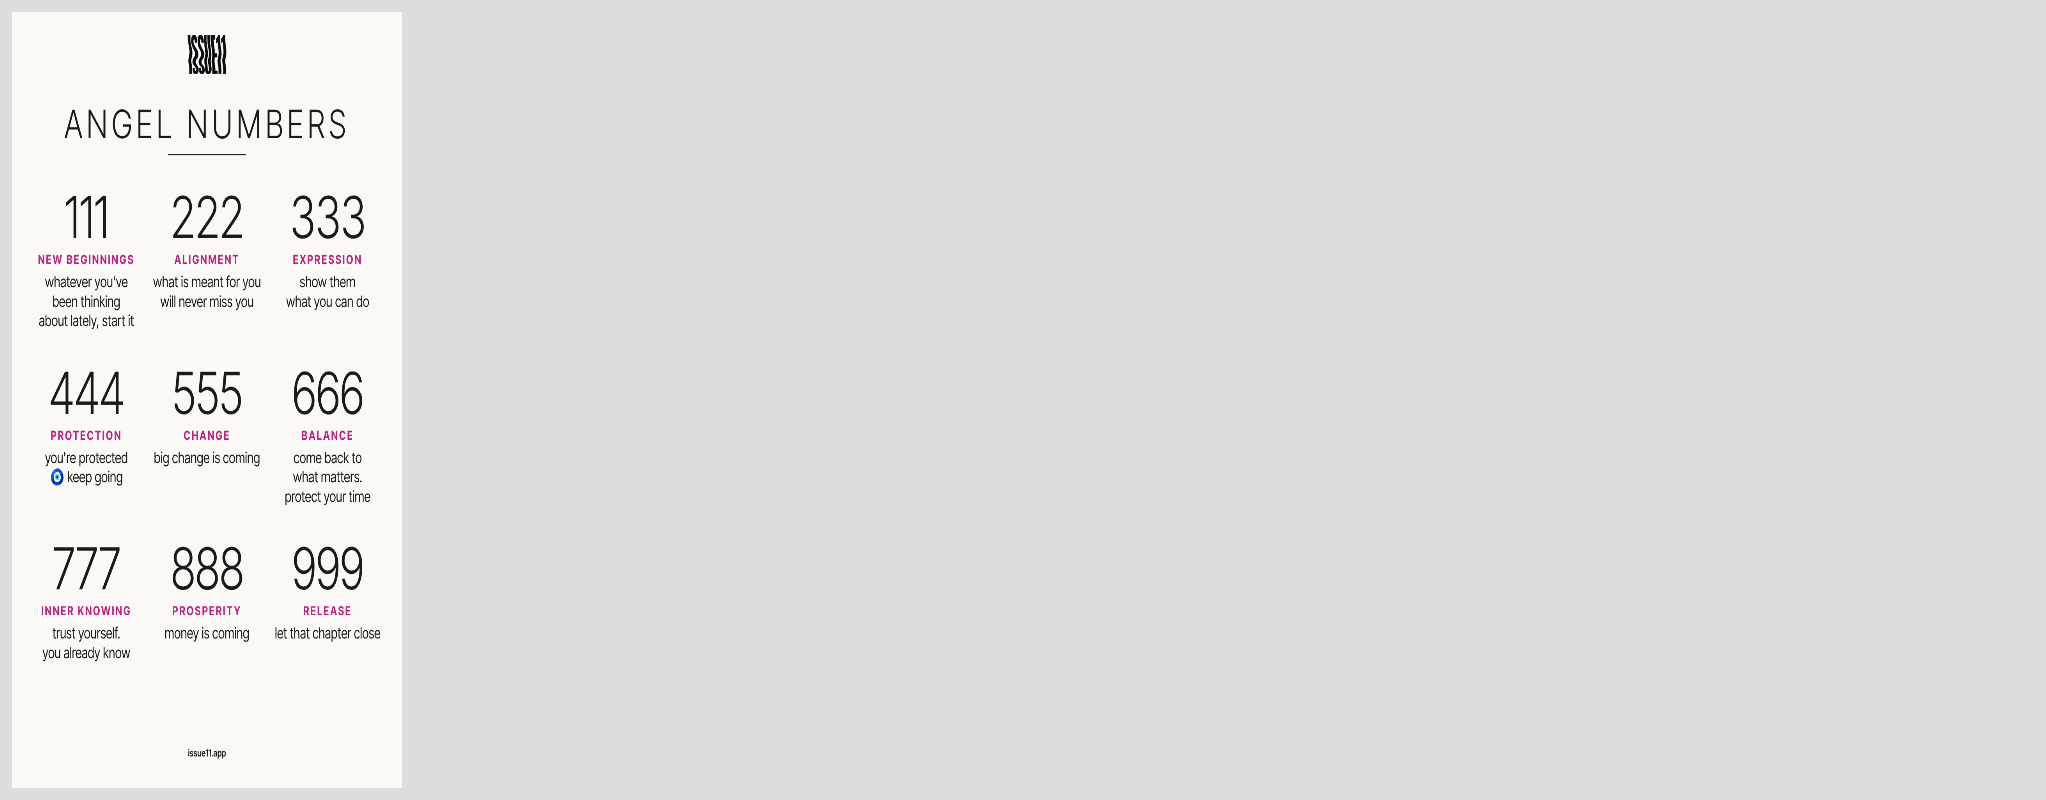
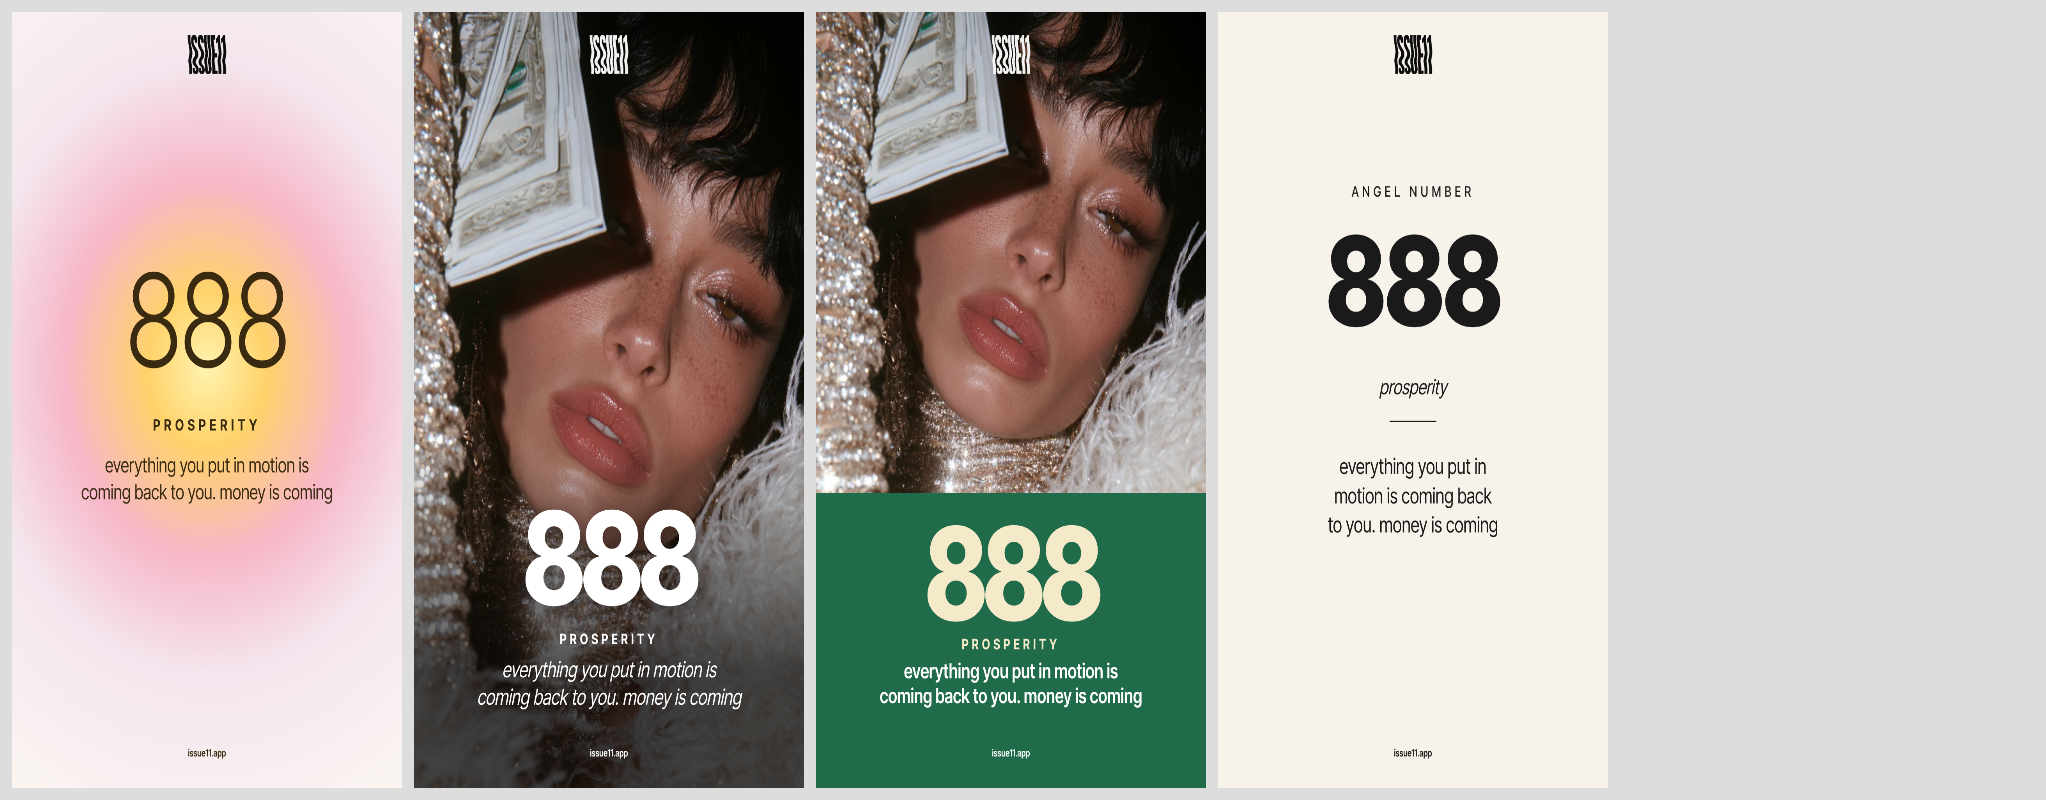
Angel number format options CT143-146
Claude-Session: https://claude.ai/code/session_01YGtmQppBCBt9nypMHzxSp1

diff --git a/drafts/pinterest/color-test/CT144.dc.html b/drafts/pinterest/color-test/CT144.dc.html
@@ -1,0 +1,41 @@
+<!doctype html>
+<html lang="en">
+<head>
+<meta charset="utf-8">
+<title>Color test 144 · angel format B · full-bleed photo</title>
+<script src="./support.js"></script>
+</head>
+<body>
+<x-dc>
+<helmet>
+<link href="https://fonts.googleapis.com/css2?family=Inter+Tight:wght@500;600;700;800;900&amp;display=swap" rel="stylesheet">
+<style>
+body{margin:0}
+.pin{width:1000px;height:1500px;position:relative;overflow:hidden;font-family:'Inter Tight',system-ui,sans-serif;color:#0D0D0D}
+.bg{position:absolute;inset:0;width:100%;height:100%;object-fit:cover}
+.logo{position:absolute;left:52px;bottom:44px;height:92px}
+.w{filter:invert(1)}
+.tag{position:absolute;font-weight:800;font-size:24px;letter-spacing:.16em;padding:12px 20px;text-transform:uppercase}
+img.f{position:absolute;object-fit:cover;display:block}
+.full{inset:0;width:100%;height:100%}
+.tl{position:absolute;left:50%;top:44px;height:76px;transform:translateX(-50%);z-index:5}
+.url{position:absolute;left:0;right:0;bottom:56px;text-align:center;font-weight:600;font-size:19px;z-index:5}
+
+.pin{background:#222}
+.n{position:absolute;left:0;right:0;top:930px;text-align:center;color:#fff;font-weight:800;font-size:250px;letter-spacing:-.06em;line-height:1;text-shadow:0 6px 40px rgba(0,0,0,.35)}
+.k{position:absolute;left:0;right:0;top:1195px;text-align:center;color:#fff;font-weight:700;font-size:28px;letter-spacing:.3em}
+.l{position:absolute;left:100px;right:100px;top:1245px;text-align:center;color:#fff;font-style:italic;font-weight:400;font-size:42px;line-height:1.25;text-wrap:balance}
+
+</style>
+</helmet>
+<div class="pin">
+<img class="f full" src="/_blob/09ac110d6a4b99f7489e0491c3418e33" style="object-position:50% 30%" alt="Editorial photo (AI-generated)"><div style="position:absolute;inset:0;background:linear-gradient(180deg,rgba(0,0,0,0) 55%,rgba(0,0,0,.7) 85%)"></div><img class="tl w" src="/_blob/d196614efc6265e2205729134fb523b8" alt="ISSUE11"><div class="n">888</div><div class="k">PROSPERITY</div><div class="l">everything you put in motion is coming back to you. money is coming</div><div class="url" style="color:#fff">issue11.app</div>
+</div>
+</x-dc>
+<script type="text/x-dc" data-dc-script data-props='{"$preview":{"width":1000,"height":1500}}'>
+class Component extends DCLogic {
+  renderVals() { return {}; }
+}
+</script>
+</body>
+</html>

diff --git a/drafts/pinterest/color-test/CT146.dc.html b/drafts/pinterest/color-test/CT146.dc.html
@@ -1,0 +1,43 @@
+<!doctype html>
+<html lang="en">
+<head>
+<meta charset="utf-8">
+<title>Color test 146 · angel format D · minimal cream card</title>
+<script src="./support.js"></script>
+</head>
+<body>
+<x-dc>
+<helmet>
+<link href="https://fonts.googleapis.com/css2?family=Inter+Tight:wght@500;600;700;800;900&amp;display=swap" rel="stylesheet">
+<style>
+body{margin:0}
+.pin{width:1000px;height:1500px;position:relative;overflow:hidden;font-family:'Inter Tight',system-ui,sans-serif;color:#0D0D0D}
+.bg{position:absolute;inset:0;width:100%;height:100%;object-fit:cover}
+.logo{position:absolute;left:52px;bottom:44px;height:92px}
+.w{filter:invert(1)}
+.tag{position:absolute;font-weight:800;font-size:24px;letter-spacing:.16em;padding:12px 20px;text-transform:uppercase}
+img.f{position:absolute;object-fit:cover;display:block}
+.full{inset:0;width:100%;height:100%}
+.tl{position:absolute;left:50%;top:44px;height:76px;transform:translateX(-50%);z-index:5}
+.url{position:absolute;left:0;right:0;bottom:56px;text-align:center;font-weight:600;font-size:19px;z-index:5}
+
+.pin{background:#F7F2EA;color:#1A1A1A}
+.t{position:absolute;left:0;right:0;top:330px;text-align:center;font-weight:500;font-size:28px;letter-spacing:.32em}
+.n{position:absolute;left:0;right:0;top:400px;text-align:center;font-weight:800;font-size:240px;letter-spacing:-.03em;line-height:1}
+.k{position:absolute;left:0;right:0;top:700px;text-align:center;font-style:italic;font-weight:400;font-size:40px}
+.hr{position:absolute;left:440px;right:440px;top:790px;border-top:2px solid #1A1A1A}
+.l{position:absolute;left:170px;right:170px;top:850px;text-align:center;font-weight:400;font-size:42px;line-height:1.35;text-wrap:balance}
+
+</style>
+</helmet>
+<div class="pin">
+<img class="tl " src="/_blob/d196614efc6265e2205729134fb523b8" alt="ISSUE11"><div class="t">ANGEL NUMBER</div><div class="n">888</div><div class="k">prosperity</div><div class="hr"></div><div class="l">everything you put in motion is coming back to you. money is coming</div><div class="url" style="color:#1A1A1A">issue11.app</div>
+</div>
+</x-dc>
+<script type="text/x-dc" data-dc-script data-props='{"$preview":{"width":1000,"height":1500}}'>
+class Component extends DCLogic {
+  renderVals() { return {}; }
+}
+</script>
+</body>
+</html>

diff --git a/drafts/pinterest/color-test/CT145.dc.html b/drafts/pinterest/color-test/CT145.dc.html
@@ -1,0 +1,41 @@
+<!doctype html>
+<html lang="en">
+<head>
+<meta charset="utf-8">
+<title>Color test 145 · angel format C · photo + colour band</title>
+<script src="./support.js"></script>
+</head>
+<body>
+<x-dc>
+<helmet>
+<link href="https://fonts.googleapis.com/css2?family=Inter+Tight:wght@500;600;700;800;900&amp;display=swap" rel="stylesheet">
+<style>
+body{margin:0}
+.pin{width:1000px;height:1500px;position:relative;overflow:hidden;font-family:'Inter Tight',system-ui,sans-serif;color:#0D0D0D}
+.bg{position:absolute;inset:0;width:100%;height:100%;object-fit:cover}
+.logo{position:absolute;left:52px;bottom:44px;height:92px}
+.w{filter:invert(1)}
+.tag{position:absolute;font-weight:800;font-size:24px;letter-spacing:.16em;padding:12px 20px;text-transform:uppercase}
+img.f{position:absolute;object-fit:cover;display:block}
+.full{inset:0;width:100%;height:100%}
+.tl{position:absolute;left:50%;top:44px;height:76px;transform:translateX(-50%);z-index:5}
+.url{position:absolute;left:0;right:0;bottom:56px;text-align:center;font-weight:600;font-size:19px;z-index:5}
+
+.pin{background:#1F6B4A}
+.n{position:absolute;left:0;right:0;top:960px;text-align:center;color:#F4E9C8;font-weight:800;font-size:250px;letter-spacing:-.06em;line-height:1}
+.k{position:absolute;left:0;right:0;top:1205px;text-align:center;color:#F4E9C8;font-weight:700;font-size:28px;letter-spacing:.3em}
+.l{position:absolute;left:90px;right:90px;top:1250px;text-align:center;color:#fff;font-weight:600;font-size:40px;line-height:1.2;text-wrap:balance}
+
+</style>
+</helmet>
+<div class="pin">
+<img class="f" src="/_blob/09ac110d6a4b99f7489e0491c3418e33" style="left:0;top:0;width:100%;height:930px;object-position:50% 25%" alt="Editorial photo (AI-generated)"><img class="tl w" src="/_blob/d196614efc6265e2205729134fb523b8" alt="ISSUE11"><div class="n">888</div><div class="k">PROSPERITY</div><div class="l">everything you put in motion is coming back to you. money is coming</div><div class="url" style="color:#fff">issue11.app</div>
+</div>
+</x-dc>
+<script type="text/x-dc" data-dc-script data-props='{"$preview":{"width":1000,"height":1500}}'>
+class Component extends DCLogic {
+  renderVals() { return {}; }
+}
+</script>
+</body>
+</html>

diff --git a/drafts/pinterest/color-test/CT143.dc.html b/drafts/pinterest/color-test/CT143.dc.html
@@ -1,0 +1,41 @@
+<!doctype html>
+<html lang="en">
+<head>
+<meta charset="utf-8">
+<title>Color test 143 · angel format A · aura gradient</title>
+<script src="./support.js"></script>
+</head>
+<body>
+<x-dc>
+<helmet>
+<link href="https://fonts.googleapis.com/css2?family=Inter+Tight:wght@500;600;700;800;900&amp;display=swap" rel="stylesheet">
+<style>
+body{margin:0}
+.pin{width:1000px;height:1500px;position:relative;overflow:hidden;font-family:'Inter Tight',system-ui,sans-serif;color:#0D0D0D}
+.bg{position:absolute;inset:0;width:100%;height:100%;object-fit:cover}
+.logo{position:absolute;left:52px;bottom:44px;height:92px}
+.w{filter:invert(1)}
+.tag{position:absolute;font-weight:800;font-size:24px;letter-spacing:.16em;padding:12px 20px;text-transform:uppercase}
+img.f{position:absolute;object-fit:cover;display:block}
+.full{inset:0;width:100%;height:100%}
+.tl{position:absolute;left:50%;top:44px;height:76px;transform:translateX(-50%);z-index:5}
+.url{position:absolute;left:0;right:0;bottom:56px;text-align:center;font-weight:600;font-size:19px;z-index:5}
+
+.pin{background:radial-gradient(circle at 50% 46%,#FFF3B0 0%,#FFD36B 16%,#F7B7C8 38%,#F4E6EE 62%,#FBF6F2 100%);color:#3A2A10}
+.n{position:absolute;left:0;right:0;top:470px;text-align:center;font-weight:300;font-size:250px;letter-spacing:-.02em;line-height:1}
+.k{position:absolute;left:0;right:0;top:780px;text-align:center;font-weight:700;font-size:30px;letter-spacing:.32em}
+.l{position:absolute;left:170px;right:170px;top:850px;text-align:center;font-weight:400;font-size:40px;line-height:1.3;text-wrap:balance}
+
+</style>
+</helmet>
+<div class="pin">
+<img class="tl " src="/_blob/d196614efc6265e2205729134fb523b8" alt="ISSUE11"><div class="n">888</div><div class="k">PROSPERITY</div><div class="l">everything you put in motion is coming back to you. money is coming</div><div class="url" style="color:#3A2A10">issue11.app</div>
+</div>
+</x-dc>
+<script type="text/x-dc" data-dc-script data-props='{"$preview":{"width":1000,"height":1500}}'>
+class Component extends DCLogic {
+  renderVals() { return {}; }
+}
+</script>
+</body>
+</html>

diff --git a/drafts/pinterest/color-test/gen15.py b/drafts/pinterest/color-test/gen15.py
@@ -1,0 +1,37 @@
+# Angel number format test (CT143–CT146), Nov 16. Megan: "I think we should do them all but we need to decide on the pin aesthetic format". Same number (888) in 4 formats; lines from ../affirmations/ANGEL-NUMBERS.md (approved).
+import gen9, gen8, gen13
+from gen import doc
+from gen13 import S, T, U, A, s
+N,K,L='888','PROSPERITY',"everything you put in motion is coming back to you. money is coming"
+P={}
+# A · aura gradient (most-saved angel format: 222 alignment 3,379 · 111 1,522 · 777 luck 473)
+P['CT143']=doc('Color test 143 · angel format A · aura gradient',S+"""
+.pin{background:radial-gradient(circle at 50% 46%,#FFF3B0 0%,#FFD36B 16%,#F7B7C8 38%,#F4E6EE 62%,#FBF6F2 100%);color:#3A2A10}
+.n{position:absolute;left:0;right:0;top:470px;text-align:center;font-weight:300;font-size:250px;letter-spacing:-.02em;line-height:1}
+.k{position:absolute;left:0;right:0;top:780px;text-align:center;font-weight:700;font-size:30px;letter-spacing:.32em}
+.l{position:absolute;left:170px;right:170px;top:850px;text-align:center;font-weight:400;font-size:40px;line-height:1.3;text-wrap:balance}
+""",f"""{T()}<div class="n">{N}</div><div class="k">{K}</div><div class="l">{L}</div>{U('#3A2A10')}""")
+# B · full-bleed photo, big number (CT133 style)
+P['CT144']=doc('Color test 144 · angel format B · full-bleed photo',S+"""
+.pin{background:#222}
+.n{position:absolute;left:0;right:0;top:930px;text-align:center;color:#fff;font-weight:800;font-size:250px;letter-spacing:-.06em;line-height:1;text-shadow:0 6px 40px rgba(0,0,0,.35)}
+.k{position:absolute;left:0;right:0;top:1195px;text-align:center;color:#fff;font-weight:700;font-size:28px;letter-spacing:.3em}
+.l{position:absolute;left:100px;right:100px;top:1245px;text-align:center;color:#fff;font-style:italic;font-weight:400;font-size:42px;line-height:1.25;text-wrap:balance}
+""",f"""<img class="f full" src="{s('cashface')}" style="object-position:50% 30%" {A}><div style="position:absolute;inset:0;background:linear-gradient(180deg,rgba(0,0,0,0) 55%,rgba(0,0,0,.7) 85%)"></div>{T('w')}<div class="n">{N}</div><div class="k">{K}</div><div class="l">{L}</div>{U('#fff')}""")
+# C · photo + colour band (CT134 style)
+P['CT145']=doc('Color test 145 · angel format C · photo + colour band',S+"""
+.pin{background:#1F6B4A}
+.n{position:absolute;left:0;right:0;top:960px;text-align:center;color:#F4E9C8;font-weight:800;font-size:250px;letter-spacing:-.06em;line-height:1}
+.k{position:absolute;left:0;right:0;top:1205px;text-align:center;color:#F4E9C8;font-weight:700;font-size:28px;letter-spacing:.3em}
+.l{position:absolute;left:90px;right:90px;top:1250px;text-align:center;color:#fff;font-weight:600;font-size:40px;line-height:1.2;text-wrap:balance}
+""",f"""<img class="f" src="{s('cashface')}" style="left:0;top:0;width:100%;height:930px;object-position:50% 25%" {A}>{T('w')}<div class="n">{N}</div><div class="k">{K}</div><div class="l">{L}</div>{U('#fff')}""")
+# D · minimal cream card (ANGEL NUMBER 888 / 999 cards, 856–1,078)
+P['CT146']=doc('Color test 146 · angel format D · minimal cream card',S+"""
+.pin{background:#F7F2EA;color:#1A1A1A}
+.t{position:absolute;left:0;right:0;top:330px;text-align:center;font-weight:500;font-size:28px;letter-spacing:.32em}
+.n{position:absolute;left:0;right:0;top:400px;text-align:center;font-weight:800;font-size:240px;letter-spacing:-.03em;line-height:1}
+.k{position:absolute;left:0;right:0;top:700px;text-align:center;font-style:italic;font-weight:400;font-size:40px}
+.hr{position:absolute;left:440px;right:440px;top:790px;border-top:2px solid #1A1A1A}
+.l{position:absolute;left:170px;right:170px;top:850px;text-align:center;font-weight:400;font-size:42px;line-height:1.35;text-wrap:balance}
+""",f"""{T()}<div class="t">ANGEL NUMBER</div><div class="n">{N}</div><div class="k">{K.lower()}</div><div class="hr"></div><div class="l">{L}</div>{U('#1A1A1A')}""")
+for k,v in P.items(): open(f'{k}.dc.html','w').write(v)

diff --git a/drafts/pinterest/color-test/COLOR-TEST.md b/drafts/pinterest/color-test/COLOR-TEST.md
@@ -130,3 +130,7 @@ Source: ../viral/2026-11-16-viral-manifest2.json + viral-vb-manifest (364 manife
 - 132 · 8888 save-to-affirm card (viral 1,532) · 133 · 111 over sky photo · 134 · 777 photo + red band · 135 · angel numbers sheet (111/222/333/777/888)
 - 136 · repeated pink line over money photo · 137 · big pink spaced text · 138 · spaced caps on cream · 139 · bold italic over money photo · 140 · sticker over photo · 141 · old paper save card · 142 · pink 369 method
 - Angel number pins (132–135): v2 lines after Megan "I am not a fan of what you wrote": viral format (number + KEYWORD + one plain line to "you"), lexicon phrases inside sentences. 135 is now the viral 3×3 chart. See ../affirmations/ANGEL-NUMBERS.md.
+
+## Angel number format test · CT143–CT146 (Nov 16)
+Megan: "I think we should do them all but we need to decide on the pin aesthetic format". Same 888 in A aura gradient · B full-bleed photo · C photo + colour band · D minimal cream card. Waiting for her pick.
+Megan also noted (Nov 16): "there are also carousels we can repurpose from Instagram to TikTok to Pinterest" → angel numbers can become a carousel (cover + one number per slide).
